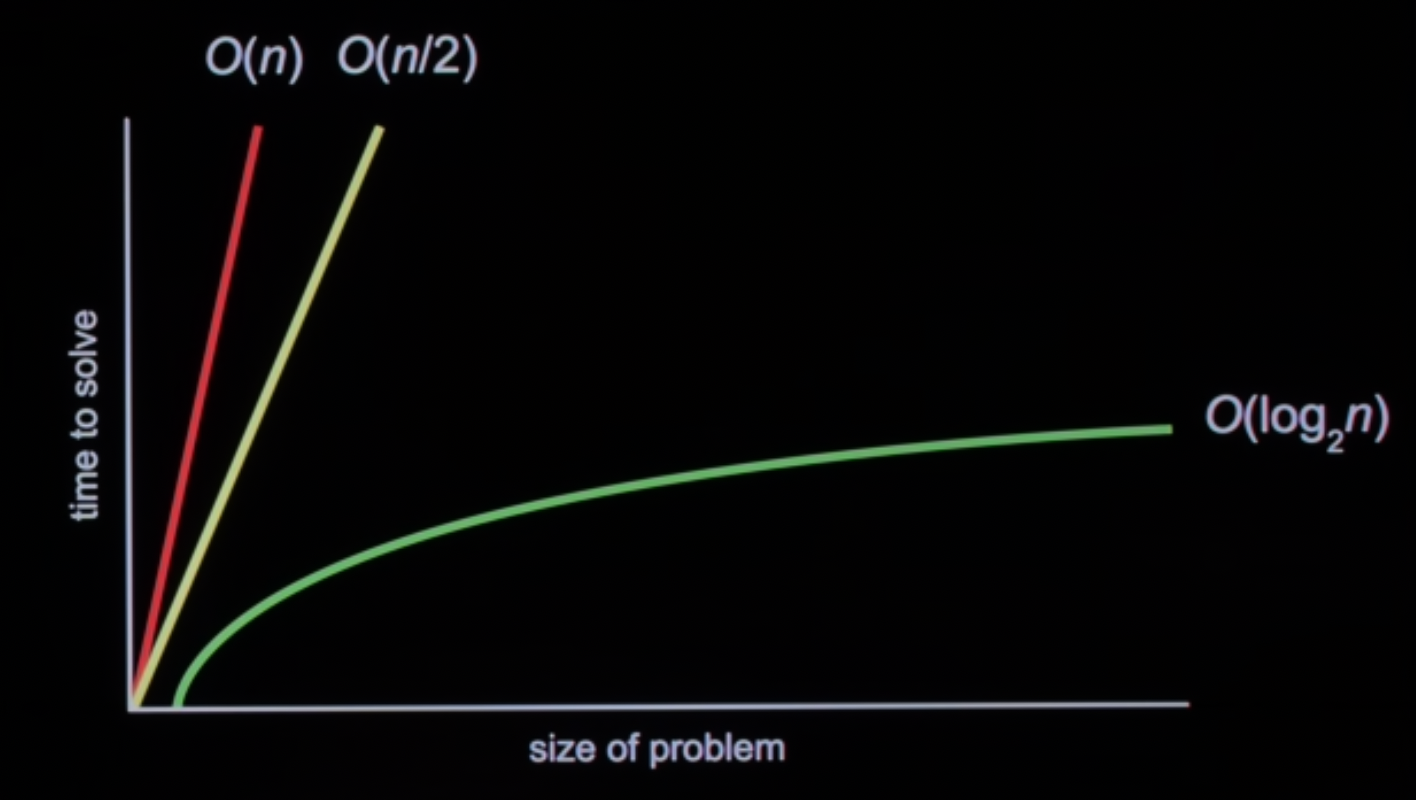
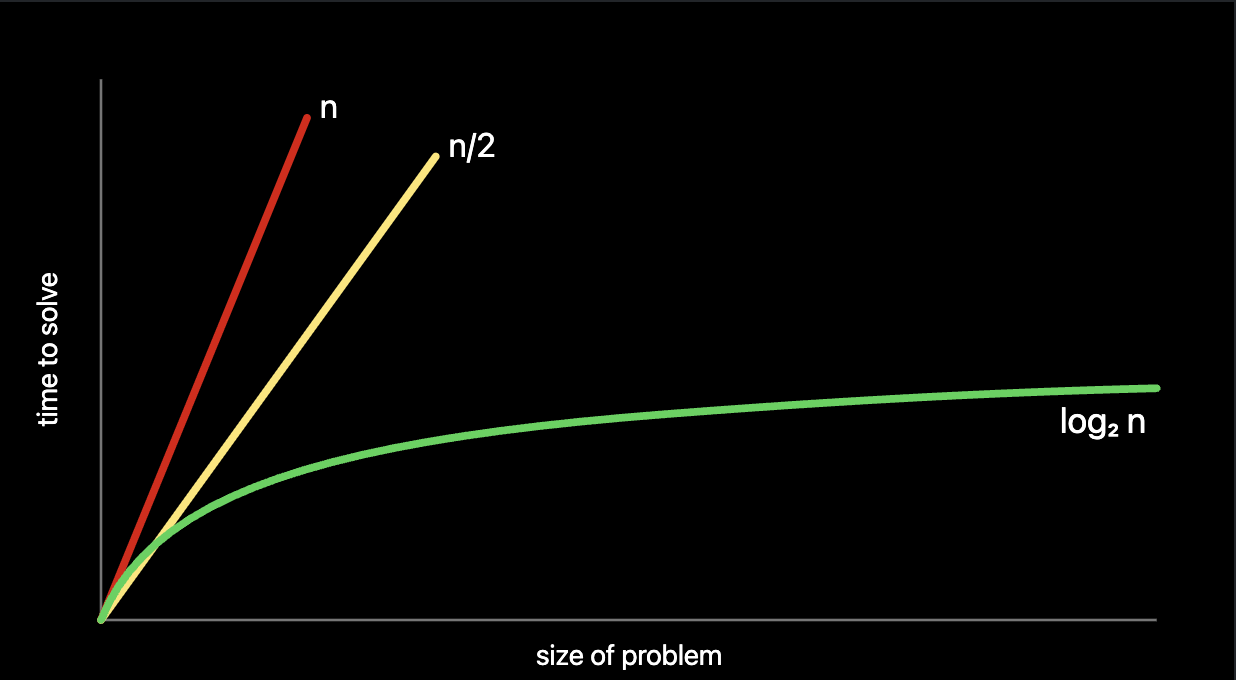
Beginning lecture 3 notes

diff --git a/Lecture3/lecture3_notes.md b/Lecture3/lecture3_notes.md
@@ -12,4 +12,4 @@
 
 ![Graph](images/O_of_n_graph.png)
 
-Here are the actual notations we use:
+# Linear Search
